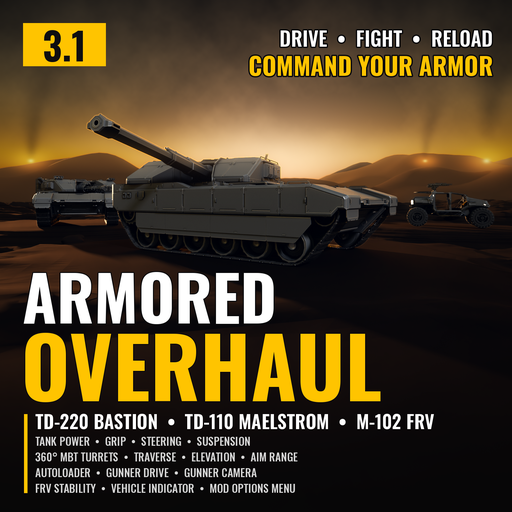
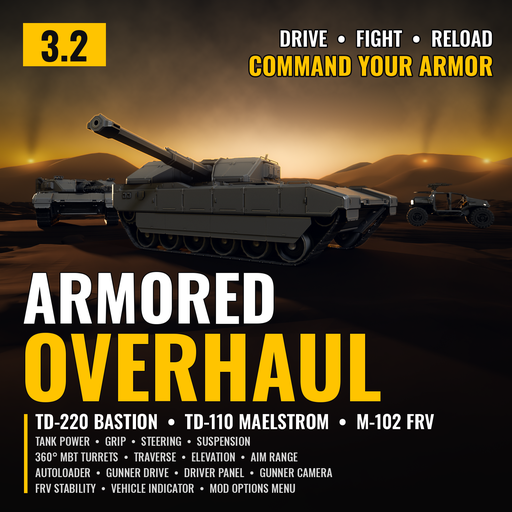
3.2.0: art scripts with the 3.2 badge, 14 options and the Driver Panel; Arsenal thumbnail

Changed region(s): [[0.3438, 0.9062, 0.6562, 0.9375], [0.0625, 0.0625, 0.1875, 0.125]]

diff --git a/src/art/features3.py b/src/art/features3.py
@@ -1,4 +1,4 @@
-"""'What's in 3.1' page photo (features_1920x1080.png): the thirteen Arsenal options with their icons and one line each,
+"""'What's in 3.2' page photo (features_1920x1080.png): the fourteen Arsenal options with their icons and one line each,
 plus the Mod Options Menu, over the darkened 16:9 art. python3 features3.py (needs clean_wide.png and options/)."""
 from PIL import Image, ImageDraw, ImageFilter, ImageFont, ImageEnhance
 
@@ -14,22 +14,23 @@ def font(size, weight):
     return f
 
 
-# Arsenal order (3.1); tag = group, badge = what changed since 3.0.1
+# Arsenal order (3.2); tag = group, badge = what changed since 3.1.1
 CARDS = [
     ('tank_power', 'TANK POWER', 'HANDLING', 'More pulling power: quicker off the line and up slopes.', None),
     ('tank_grip', 'TANK GRIP', 'HANDLING', 'Tracks hold their line on slopes and in turns.', None),
     ('tank_steering', 'TANK STEERING', 'HANDLING', 'Quicker to start and stop turning.', None),
-    ('tank_suspension', 'TANK SUSPENSION', 'HANDLING', 'A calm ride, a little higher and hard to tip.', 'UPDATED'),
-    ('mbt_turrets', 'TANK MBT TURRETS', 'TURRET', 'Rebuilt: wears your camo and damage. 360 or 180.', 'UPDATED'),
-    ('turret_traverse', 'TURRET TRAVERSE', 'TURRET', 'Turns side to side up to three times as fast.', 'UPDATED'),
+    ('tank_suspension', 'TANK SUSPENSION', 'HANDLING', 'A calm ride, a little higher and hard to tip.', None),
+    ('mbt_turrets', 'TANK MBT TURRETS', 'TURRET', 'Rebuilt turrets that wear your camo and damage. 360 or 180.', None),
+    ('turret_traverse', 'TURRET TRAVERSE', 'TURRET', 'Turns side to side up to three times as fast.', None),
     ('turret_elevation', 'TURRET ELEVATION', 'TURRET', 'Moves up and down up to twice as fast.', None),
     ('turret_aim_range', 'TURRET AIM RANGE', 'TURRET', 'Aims lower and higher: up to -15° / +45°.', None),
     ('autoloader', 'TANK AUTOLOADER', 'TURRET', 'The main gun reloads by itself when it runs dry.', None),
-    ('gunner_drive', 'GUNNER DRIVE', 'GUNNER SEAT', 'Drive tanks and the FRV from the gunner seat. Horn and controller.', None),
-    ('gunner_camera', 'TANK GUNNER CAMERA', 'GUNNER SEAT', 'Lower and further behind the turret: four distances.', None),
-    ('frv_stability', 'FRV STABILITY', 'FRV', 'Retuned with more grip: Stable, Mild or Planted.', 'UPDATED'),
+    ('gunner_drive', 'GUNNER DRIVE', 'GUNNER SEAT', 'Drive tanks and the FRV from the gunner seat. Every key bindable.', 'UPDATED'),
+    ('driver_panel', 'DRIVER PANEL', 'GUNNER SEAT', 'Gear, rpm, speed and fuel while you drive from the gunner seat.', 'NEW'),
+    ('gunner_camera', 'TANK GUNNER CAMERA', 'GUNNER SEAT', 'Scroll it in and out, then zoom on the crosshair to 10x.', 'UPDATED'),
+    ('frv_stability', 'FRV STABILITY', 'FRV', 'Retuned with more grip: Stable, Mild or Planted.', None),
     ('turret_indicator', 'VEHICLE INDICATOR', 'ANY SEAT', 'Your vehicle and gun at a glance, in tanks and FRVs, tire by tire.', None),
-    (None, 'MOD OPTIONS MENU', 'IN GAME', "Change the options you installed in game, under MODS, ARMORED OVERHAUL (CowboyBingus's Mod Options Menu, optional).", None),
+    (None, 'MOD OPTIONS MENU', 'IN GAME', 'Change your options in game, under MODS.', None),
 ]
 
 
@@ -64,12 +65,12 @@ def main():
     im = bg.convert('RGBA')
     d = ImageDraw.Draw(im)
     d.rectangle([60, 56, 290, 166], fill=YELLOW)
-    d.text((175, 111), '3.1', font=font(104, 700), fill=(14, 14, 16), anchor='mm')
+    d.text((175, 111), '3.2', font=font(104, 700), fill=(14, 14, 16), anchor='mm')
     d.text((326, 106), 'ARMORED ', font=font(84, 700), fill=(255, 255, 255), anchor='ls', stroke_width=2, stroke_fill=(10, 10, 12))
     x = 326 + d.textlength('ARMORED ', font=font(84, 700))
     d.text((x, 106), 'OVERHAUL', font=font(84, 700), fill=YELLOW, anchor='ls', stroke_width=2, stroke_fill=(10, 10, 12))
-    d.text((330, 160), 'THIRTEEN OPTIONS  •  REBUILT TURRETS', font=font(32, 500), fill=(215, 215, 215), anchor='ls')
-    d.text((1860, 106), "WHAT'S IN 3.1", font=font(64, 700), fill=YELLOW, anchor='rs', stroke_width=2, stroke_fill=(10, 10, 12))
+    d.text((330, 160), 'FOURTEEN OPTIONS  •  GUNNER ZOOM  •  DRIVER PANEL', font=font(32, 500), fill=(215, 215, 215), anchor='ls')
+    d.text((1860, 106), "WHAT'S IN 3.2", font=font(64, 700), fill=YELLOW, anchor='rs', stroke_width=2, stroke_fill=(10, 10, 12))
     d.text((1860, 158), 'TD-220 BASTION  •  TD-110 MAELSTROM  •  FRVS', font=font(30, 600), fill=(255, 255, 255), anchor='rs')
     cols, x0, y0, gx, gy = 5, 60, 214, 18, 22
     cw = (1800 - gx * (cols - 1)) // cols
@@ -78,7 +79,7 @@ def main():
     fd, ft, fb = font(23, 500), font(18, 600), font(19, 700)
     for i, (key, name, tag, desc, badge) in enumerate(CARDS):
         r, c = divmod(i, cols)
-        span = 2 if key is None else 1
+        span = 1
         x, y = x0 + c * (cw + gx), y0 + r * (ch + gy)
         w = cw * span + gx * (span - 1)
         card = Image.new('RGBA', (w, ch), (0, 0, 0, 0))

diff --git a/src/art/art3_compose.py b/src/art/art3_compose.py
@@ -1,4 +1,4 @@
-"""Armored Overhaul 3.1 art: grades the Bastion / Maelstrom / FRV renders (scene3.py) into the square thumbnail, the 16:9
+"""Armored Overhaul 3.2 art: grades the Bastion / Maelstrom / FRV renders (scene3.py) into the square thumbnail, the 16:9
 gallery photo, the Nexus header and the 2:1 GitHub social picture.
   python3 art3_compose.py [square] [wide] [header] [social]   (needs R/sq.png, R/mask_sq.png, R/mist_sq_0001.png, the same for wd and hd)
 Outputs: thumbnail_1254.png, thumbnail_512.png (Arsenal), gallery_1920x1080.png, clean_square.png (no text, for icons)."""
@@ -10,15 +10,15 @@ ART = '.'
 R = '../final'
 FONT = ART + '/Oswald-VF.ttf'
 YELLOW = (255, 196, 0)
-VERSION = '3.1'
+VERSION = '3.2'
 TAG1, TAG2 = 'DRIVE  \u2022  FIGHT  \u2022  RELOAD', 'COMMAND YOUR ARMOR'
 VEHICLES = 'TD-220 BASTION  \u2022  TD-110 MAELSTROM  \u2022  M-102 FRV'
 FEATURES_SQUARE = ['TANK POWER  •  GRIP  •  STEERING  •  SUSPENSION',
                    '360° MBT TURRETS  •  TRAVERSE  •  ELEVATION  •  AIM RANGE',
-                   'AUTOLOADER  •  GUNNER DRIVE  •  GUNNER CAMERA',
+                   'AUTOLOADER  •  GUNNER DRIVE  •  DRIVER PANEL  •  GUNNER CAMERA',
                    'FRV STABILITY  •  VEHICLE INDICATOR  •  MOD OPTIONS MENU']   # (3.0) Arsenal option order, then the menu
 FEATURES = ['TANK POWER  •  GRIP  •  STEERING  •  SUSPENSION  •  360° MBT TURRETS  •  TRAVERSE  •  ELEVATION  •  AIM RANGE',
-            'AUTOLOADER  •  GUNNER DRIVE  •  GUNNER CAMERA  •  FRV STABILITY  •  VEHICLE INDICATOR  •  MOD OPTIONS MENU']
+            'AUTOLOADER  •  GUNNER DRIVE  •  DRIVER PANEL  •  GUNNER CAMERA  •  FRV STABILITY  •  VEHICLE INDICATOR  •  MOD OPTIONS MENU']
 
 
 def font(size, weight):
@@ -239,7 +239,7 @@ def header():
     text(d, (68, base + 26 + cap(fs)), VEHICLES, fs, (255, 255, 255), anchor='ls')
     ff = font(19, 500)
     for i, line in enumerate(['POWER  \u2022  GRIP  \u2022  STEERING  \u2022  SUSPENSION  \u2022  360\u00b0 MBT TURRETS',
-                              'TRAVERSE  \u2022  ELEVATION  \u2022  AIM RANGE  \u2022  AUTOLOADER  \u2022  GUNNER DRIVE',
+                              'TRAVERSE  \u2022  ELEVATION  \u2022  AIM RANGE  \u2022  AUTOLOADER  \u2022  GUNNER DRIVE  \u2022  DRIVER PANEL',
                               'GUNNER CAMERA  \u2022  FRV STABILITY  \u2022  VEHICLE INDICATOR  \u2022  MOD OPTIONS MENU']):
         text(d, (68, base + 26 + cap(fs) + 32 + i * 28), line, ff, (215, 215, 215), anchor='ls')
     d.rectangle([46, 40, 150, 92], fill=YELLOW)

diff --git a/src/art/options3_sheet.py b/src/art/options3_sheet.py
@@ -1,10 +1,10 @@
-"""Page image with the Arsenal option icons and their names, in the Arsenal order (options_icons.png), two rows (3.0)."""
+"""Page image with the Arsenal option icons and their names, in the Arsenal order (options_icons.png), two rows (3.2: 14 options)."""
 from PIL import Image, ImageDraw, ImageFont
 f = ImageFont.truetype('Oswald-VF.ttf', 30); f.set_variation_by_axes([600])
 names = [('tank_power', 'TANK POWER'), ('tank_grip', 'TANK GRIP'), ('tank_steering', 'TANK STEERING'),
          ('tank_suspension', 'TANK SUSPENSION'), ('mbt_turrets', 'TANK MBT TURRETS'), ('turret_traverse', 'TURRET TRAVERSE'),
          ('turret_elevation', 'TURRET ELEVATION'), ('turret_aim_range', 'TURRET AIM RANGE'), ('autoloader', 'TANK AUTOLOADER'),
-         ('gunner_drive', 'GUNNER DRIVE'), ('gunner_camera', 'TANK GUNNER CAMERA'), ('frv_stability', 'FRV STABILITY'),
+         ('gunner_drive', 'GUNNER DRIVE'), ('driver_panel', 'DRIVER PANEL'), ('gunner_camera', 'TANK GUNNER CAMERA'), ('frv_stability', 'FRV STABILITY'),
          ('turret_indicator', 'VEHICLE INDICATOR')]
 cols = 7; rows = (len(names) + cols - 1) // cols
 cw, ch = 296, 256 + 100

diff --git a/src/art/README.md b/src/art/README.md
@@ -1,6 +1,6 @@
-# Armored Overhaul 3.1 art
+# Armored Overhaul 3.2 art
 
-The thumbnail, gallery photo, header, social picture and the "What's in 3.1" and option pictures in `media/`.
+The thumbnail, gallery photo, header, social picture and the "What's in 3.2" and option pictures in `media/`.
 
 1. **Game models.** Build [Filediver](https://github.com/xypwn/filediver) (the commit in `filediver_commit.txt`) with
    `filediver_art.diff` applied: game data and materials that aren't in the extracted packages are skipped instead of
